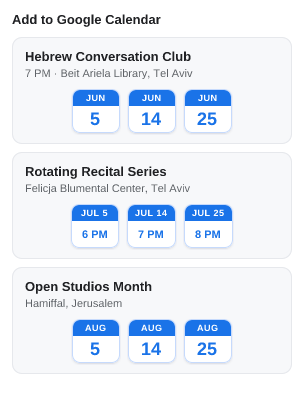
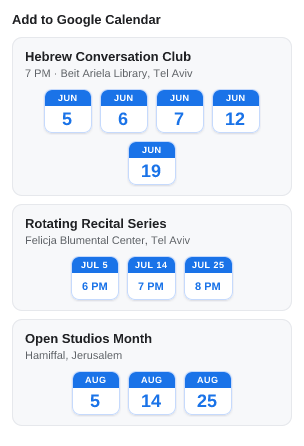
Pack more coverage per UI case; restore dropped grouping/count scenarios
A review of the per-image coverage of the prior 15 cases showed the trimmed-to-8
set silently dropped several DISTINCT visuals (not just unit-tested logic). Pack
the kept cases fuller and restore the genuinely-missing scenarios, landing at 10:

- 05 (same-day card): add a non-round time RANGE chip alongside the single-time
  chips, so the same-day card shows both chip-body widths.
- 06 (month card header): give the shared-time card five dates including a 5/6/7
  run, so the chip row WRAPS to a second row and the consecutive-days-aren't-merged
  rule (#330) is visible — on top of the three commonTime header branches.
- 07 (new): one event splitting into a month card + a same-day card + a single
  card, with the out-of-strict-day-order interleave — the headline of the grouping
  model, and the only place all three card kinds appear together.
- 09 (new, restores old events-outnumber-cards): the count cue counts event
  INSTANCES not cards (8 cards -> 13 events, "N events showing", no link), in a
  realistic mixed single+same-day list.
- Renumber the two count/fade cases to 08 and 10.

Still rightly omitted: the (invisible) UTC-offset wall-clock render and the
both-fades-at-once view, both covered elsewhere (unit tests; top+bottom fades
shown separately in 08/10).

Refs #340

Claude-Session: https://claude.ai/code/session_0187gNsSRK9gS8CthEnVKztx

diff --git a/test/ui/cases/09-count-label-counts-event-instances-not-cards.case.js b/test/ui/cases/09-count-label-counts-event-instances-not-cards.case.js
@@ -1,0 +1,45 @@
+// The bottom count cue counts EVENT INSTANCES, not cards. The card cap is a layout
+// limit, but the label sums showings — so a list with same-day cards reports MORE
+// events than it has cards. Here six single-show meetups plus two films that each
+// screen several times on ONE day (one same-day card each) make 8 cards but 13
+// events; scrolled to the end, the list's last item reads "13 events showing" (no
+// "show all" — every card is already shown, so the label is just a scroll cue).
+// Doubles as the realistic mixed list: single cards interleaved with same-day cards.
+"use strict";
+
+const { scrollToBottom } = require("../actions");
+
+const single = (n, day) => ({
+  title: `Community Meetup #${n}`,
+  location: "Pioneer Works, Brooklyn",
+  times: [{ start: `2026-06-${day}T18:00:00`, end: `2026-06-${day}T20:00:00` }],
+});
+
+const screenings = (title, day, times) => ({
+  title,
+  location: "Tel Aviv Cinematheque",
+  ctz: "Asia/Jerusalem",
+  times: times.map((t) => ({ start: `2026-06-${day}T${t}:00`, end: null })),
+});
+
+module.exports = {
+  description:
+    "The count cue counts event instances, not cards: a mixed list of 8 cards (two of them same-day cards) holds 13 events, so the end reads '13 events showing'",
+  data: {
+    supported: true,
+    events: [
+      single(1, "10"),
+      single(2, "11"),
+      // Four screenings on Jun 12 -> one same-day card, four events.
+      screenings("Poetry in the Bookstores", "12", ["11:00", "14:00", "17:00", "20:00"]),
+      single(3, "13"),
+      single(4, "15"),
+      // Three screenings on Jun 16 -> one same-day card, three events.
+      screenings("The Left-Handed Girl", "16", ["13:00", "16:30", "20:00"]),
+      single(5, "18"),
+      single(6, "19"),
+    ],
+  },
+  listing: "none",
+  action: scrollToBottom,
+};

diff --git a/test/ui/cases/07-one-event-splits-into-month-same-day-and-single-cards.case.js b/test/ui/cases/07-one-event-splits-into-month-same-day-and-single-cards.case.js
@@ -1,0 +1,37 @@
+// One event splitting into MULTIPLE cards of every kind — the headline of the
+// month-grouping model (an event keeps its showings in times[], and toCards turns
+// them into cards by day/month; instances are never merged). This event's five
+// showings become three cards, ordered by earliest instance:
+//   - a MONTH card for its two single-show June days (Jun 10 & 12, both 8 PM ->
+//     shared-time header + day chips);
+//   - a SAME-DAY card for the day with two shows (Jun 11 at 6 & 9 PM -> time chips,
+//     location-only header);
+//   - a SINGLE card for the lone July day (Jul 3) — whole-card clickable, with the
+//     chevron the grouped cards don't have.
+// Note the order: the month card (earliest Jun 10) sits BEFORE the same-day card
+// (Jun 11) even though Jun 11 falls between its two days — cards sort by earliest
+// instance, the out-of-strict-day-order read that month grouping accepts.
+"use strict";
+
+module.exports = {
+  description:
+    "One event splits into several cards: a month card (its single-show June days), a same-day card (the two-show day), and a single card (the lone July day)",
+  data: {
+    supported: true,
+    events: [
+      {
+        title: "Open-Air Cinema",
+        location: "Hayarkon Park, Tel Aviv",
+        ctz: "Asia/Jerusalem",
+        times: [
+          { start: "2026-06-10T20:00:00", end: null },
+          { start: "2026-06-11T18:00:00", end: null },
+          { start: "2026-06-11T21:00:00", end: null },
+          { start: "2026-06-12T20:00:00", end: null },
+          { start: "2026-07-03T20:00:00", end: null },
+        ],
+      },
+    ],
+  },
+  listing: "none",
+};

diff --git a/test/ui/cases/06-month-card-header-shows-shared-time-else-per-day-times-or-allday.case.js b/test/ui/cases/06-month-card-header-shows-shared-time-else-per-day-times-or-allday.case.js
@@ -1,20 +1,21 @@
-// The month card's header, all three commonTime branches side by side. A month
-// card folds an event's scattered single-show days into one card (a button per
-// day); what its header and chips show depends on those days' times:
-//   - SHARED time (Hebrew Conversation Club, Jun 5/14/25 all 7 PM): the shared
-//     time leads the header ("7 PM · <location>") and each chip is a bare DAY chip
-//     (month banner + day) — the time the day chips can't show, surfaced once.
+// The month card's header AND its chip row, packed. A month card folds an event's
+// scattered single-show days into one card (a button per day); the three events
+// here cover all three commonTime branches side by side, and the first also
+// exercises chip-row WRAPPING and the consecutive-days-aren't-merged rule (#330):
+//   - SHARED time (Hebrew Conversation Club, Jun 5/6/7/12/19 all 7 PM): the shared
+//     time leads the header ("7 PM · <location>"); the five bare DAY chips (month
+//     banner + day) wrap to a second row, and the consecutive 5/6/7 stay three
+//     separate chips — never collapsed into a range.
 //   - DIFFERENT times (Rotating Recital Series, Jul 5/14/25 at 6/7/8 PM): no time
 //     to share, so the header is just the location and each chip becomes a TIME
 //     chip (date banner + that day's time) so no time is lost.
 //   - ALL-DAY (Open Studios Month, Aug 5/14/25, date-only): no time to share, so
 //     the header is just the location, with plain day chips.
-// One event per branch — each earns its place.
 "use strict";
 
 module.exports = {
   description:
-    "Month card surfaces a shared start time in its header (day chips), else drops to per-day time chips, else shows just the location (all-day dates)",
+    "Month card surfaces a shared start time in its header (day chips that wrap when many, consecutive days not merged), else per-day time chips, else just the location (all-day dates)",
   data: {
     supported: true,
     events: [
@@ -24,8 +25,10 @@ module.exports = {
         ctz: "Asia/Jerusalem",
         times: [
           { start: "2026-06-05T19:00:00", end: null },
-          { start: "2026-06-14T19:00:00", end: null },
-          { start: "2026-06-25T19:00:00", end: null },
+          { start: "2026-06-06T19:00:00", end: null },
+          { start: "2026-06-07T19:00:00", end: null },
+          { start: "2026-06-12T19:00:00", end: null },
+          { start: "2026-06-19T19:00:00", end: null },
         ],
       },
       {

diff --git a/test/ui/cases/05-same-day-screenings-each-become-their-own-time-button.case.js b/test/ui/cases/05-same-day-screenings-each-become-their-own-time-button.case.js
@@ -1,13 +1,14 @@
 // A same-day card: several showings of one event on ONE date. The card itself
 // isn't clickable — each showing is its own TIME chip button (the date in the
 // banner, the time in the body), so "event instances on the same date are
-// different buttons". The three times include a non-round one (4:30 PM) to show
-// minute formatting in a chip; the Hebrew in the location exercises bidi text.
+// different buttons". The three showings also pack the chip-body variations: a
+// round single time (1 PM), a non-round time RANGE (4:30 PM – 6:18 PM), and
+// another round single (8 PM). The Hebrew in the location exercises bidi text.
 "use strict";
 
 module.exports = {
   description:
-    "Same-day screenings each become their own time button: one same-day card with a chip per showing",
+    "Same-day screenings each become their own time button: one same-day card, a chip per showing (single times and a time range)",
   data: {
     supported: true,
     events: [
@@ -17,7 +18,7 @@ module.exports = {
         ctz: "Asia/Jerusalem",
         times: [
           { start: "2026-06-19T13:00:00", end: null },
-          { start: "2026-06-19T16:30:00", end: null },
+          { start: "2026-06-19T16:30:00", end: "2026-06-19T18:18:00" },
           { start: "2026-06-19T20:00:00", end: null },
         ],
       },

diff --git a/test/ui/README.md b/test/ui/README.md
@@ -39,24 +39,36 @@ Denylisted host suppresses even a complete event: the empty glyph with no link o
 
 ## 05-same-day-screenings-each-become-their-own-time-button
 
-Same-day screenings each become their own time button: one same-day card with a chip per showing
+Same-day screenings each become their own time button: one same-day card, a chip per showing (single times and a time range)
 
 ![05-same-day-screenings-each-become-their-own-time-button](cases/05-same-day-screenings-each-become-their-own-time-button.png)
 
 ## 06-month-card-header-shows-shared-time-else-per-day-times-or-allday
 
-Month card surfaces a shared start time in its header (day chips), else drops to per-day time chips, else shows just the location (all-day dates)
+Month card surfaces a shared start time in its header (day chips that wrap when many, consecutive days not merged), else per-day time chips, else just the location (all-day dates)
 
 ![06-month-card-header-shows-shared-time-else-per-day-times-or-allday](cases/06-month-card-header-shows-shared-time-else-per-day-times-or-allday.png)
 
-## 07-capped-list-scrolled-to-end-shows-count-and-show-all-link
+## 07-one-event-splits-into-month-same-day-and-single-cards
+
+One event splits into several cards: a month card (its single-show June days), a same-day card (the two-show day), and a single card (the lone July day)
+
+![07-one-event-splits-into-month-same-day-and-single-cards](cases/07-one-event-splits-into-month-same-day-and-single-cards.png)
+
+## 08-capped-list-scrolled-to-end-shows-count-and-show-all-link
 
 Capped list scrolled to the end: the 'N out of M events showing' count, a 'show all' link, and the top edge fade
 
-![07-capped-list-scrolled-to-end-shows-count-and-show-all-link](cases/07-capped-list-scrolled-to-end-shows-count-and-show-all-link.png)
+![08-capped-list-scrolled-to-end-shows-count-and-show-all-link](cases/08-capped-list-scrolled-to-end-shows-count-and-show-all-link.png)
 
-## 08-overflowing-list-at-rest-fades-out-its-bottom-edge
+## 09-count-label-counts-event-instances-not-cards
+
+The count cue counts event instances, not cards: a mixed list of 8 cards (two of them same-day cards) holds 13 events, so the end reads '13 events showing'
+
+![09-count-label-counts-event-instances-not-cards](cases/09-count-label-counts-event-instances-not-cards.png)
+
+## 10-overflowing-list-at-rest-fades-out-its-bottom-edge
 
 Overflowing list at rest at the top: the bottom edge fades out to cue there's more below
 
-![08-overflowing-list-at-rest-fades-out-its-bottom-edge](cases/08-overflowing-list-at-rest-fades-out-its-bottom-edge.png)
+![10-overflowing-list-at-rest-fades-out-its-bottom-edge](cases/10-overflowing-list-at-rest-fades-out-its-bottom-edge.png)